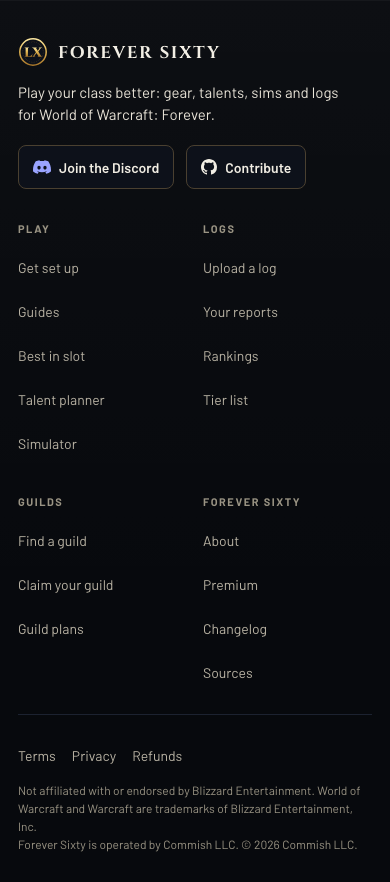
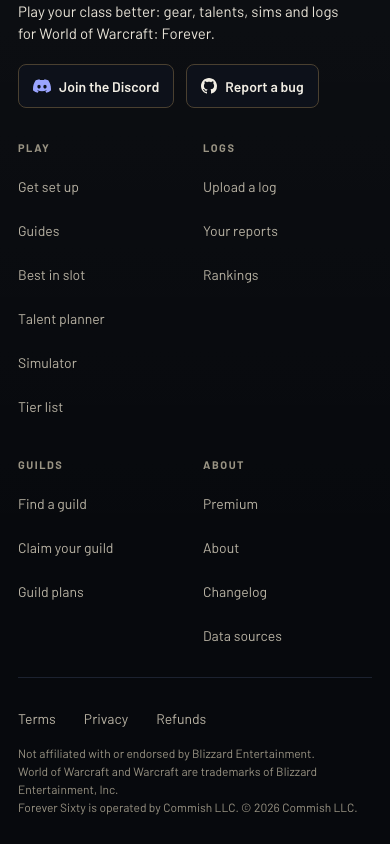
fix(web): footer wording, one grid, 44px legal targets

diff --git a/web/tests/e2e/footer.spec.ts b/web/tests/e2e/footer.spec.ts
@@ -3,7 +3,6 @@ import { expect, test, type Locator } from '@playwright/test';
 // design/specs/2026-10-28-polish.md section 2.3: below 768 the four link columns are a 2 x 2
 // grid (never one long column) and every link is a 44px row; the Discord button is reachable.
 test.use({ viewport: { width: 390, height: 844 } });
-test.skip(() => test.info().project.name !== 'desktop', 'one project: the viewport is set here');
 
 const HIT_TARGET_PX = 44;
 
@@ -16,7 +15,7 @@ async function box(locator: Locator): Promise<{ x: number; y: number; width: num
 test('on a phone the four columns stack two-up with 44px link rows', async ({ page }) => {
   await page.goto('/about');
   const nav = page.getByRole('navigation', { name: 'Footer' });
-  const labels = ['Play', 'Logs', 'Guilds', 'Forever Sixty'];
+  const labels = ['Play', 'Logs', 'Guilds', 'About'];
   const heads = await Promise.all(labels.map((label) => box(nav.getByText(label, { exact: true }).first())));
   expect(Math.abs(heads[0].y - heads[1].y)).toBeLessThan(2);
   expect(Math.abs(heads[2].y - heads[3].y)).toBeLessThan(2);
@@ -40,7 +39,9 @@ test('the legal links and the buttons clear 44px and sit above the legal sentenc
   ] as const) {
     const link = footer.getByRole('link', { name: label, exact: true });
     await expect(link).toHaveAttribute('href', href);
-    expect((await box(link)).height).toBeGreaterThanOrEqual(HIT_TARGET_PX);
+    const linkBox = await box(link);
+    expect(linkBox.height).toBeGreaterThanOrEqual(HIT_TARGET_PX);
+    expect(linkBox.width).toBeGreaterThanOrEqual(HIT_TARGET_PX);
   }
   const discord = footer.getByRole('link', { name: 'Join the Discord' });
   expect((await box(discord)).height).toBeGreaterThanOrEqual(HIT_TARGET_PX);

diff --git a/web/src/lib/footer-copy.ts b/web/src/lib/footer-copy.ts
@@ -22,7 +22,7 @@ export const FOOTER_DISCORD_BUTTON: FooterLink = {
 };
 
 export const FOOTER_CONTRIBUTE_BUTTON: FooterLink = {
-  label: 'Contribute',
+  label: 'Report a bug',
   href: `${communityLinks.githubRepo}/issues`,
 };
 
@@ -35,6 +35,7 @@ export const FOOTER_COLUMNS: readonly FooterColumn[] = [
       { label: 'Best in slot', href: '/bis' },
       { label: 'Talent planner', href: '/planner' },
       { label: 'Simulator', href: '/sim' },
+      { label: 'Tier list', href: '/tiers' },
     ],
   },
   {
@@ -43,7 +44,6 @@ export const FOOTER_COLUMNS: readonly FooterColumn[] = [
       { label: 'Upload a log', href: '/logs' },
       { label: 'Your reports', href: '/reports' },
       { label: 'Rankings', href: '/rankings' },
-      { label: 'Tier list', href: '/tiers' },
     ],
   },
   {
@@ -55,12 +55,12 @@ export const FOOTER_COLUMNS: readonly FooterColumn[] = [
     ],
   },
   {
-    heading: 'Forever Sixty',
+    heading: 'About',
     links: [
-      { label: 'About', href: '/about' },
       { label: 'Premium', href: '/premium' },
+      { label: 'About', href: '/about' },
       { label: 'Changelog', href: '/changelog' },
-      { label: 'Sources', href: '/sources' },
+      { label: 'Data sources', href: '/sources' },
     ],
   },
 ];

diff --git a/web/src/components/Footer.test.ts b/web/src/components/Footer.test.ts
@@ -46,12 +46,7 @@ describe('Footer', () => {
   });
 
   it('has the four labelled columns of the spec in order', () => {
-    expect(FOOTER_COLUMNS.map((column) => column.heading)).toEqual([
-      'Play',
-      'Logs',
-      'Guilds',
-      'Forever Sixty',
-    ]);
+    expect(FOOTER_COLUMNS.map((column) => column.heading)).toEqual(['Play', 'Logs', 'Guilds', 'About']);
   });
 
   it('renders every column and legal link with its href', async () => {
@@ -67,9 +62,9 @@ describe('Footer', () => {
     }
   });
 
-  it('carries the Discord invite and the Contribute issues link as buttons', async () => {
+  it('carries the Discord invite and the Report a bug issues link as buttons', async () => {
     const html = await renderFooter();
     expect(html).toMatch(/<a[^>]*href="https:\/\/discord\.gg\/[^"]+"[^>]*>[\s\S]*?Join the Discord/);
-    expect(html).toMatch(/<a[^>]*href="[^"]+\/issues"[^>]*>[\s\S]*?Contribute/);
+    expect(html).toMatch(/<a[^>]*href="[^"]+\/issues"[^>]*>[\s\S]*?Report a bug/);
   });
 });

diff --git a/design/specs/2026-10-28-polish.md b/design/specs/2026-10-28-polish.md
@@ -122,11 +122,11 @@ A footer answers “where is everything else, and who runs this?”. At 1280 and
 
 Boards: `renders/polish-footer-1440.png`, `polish-footer-2000.png`, `polish-footer-phone.png`.
 
-Full-bleed band: 1 px `rgba(255,255,255,.06)` top rule, ground `linear-gradient(180deg, rgba(255,255,255,.025), transparent 70%)` over `--bg`. Content in the centred 1344 column.
+Full-bleed band: 1 px `rgba(255,255,255,.06)` top rule, ground `linear-gradient(180deg, rgba(255,255,255,.025), transparent 70%)` over `--bg`. Content in the site's page column (`--page-max` 1344 with its 48 px gutter, so 1248 px of content, as the mock draws it).
 
 **Top row (from 1024).** `grid-template-columns: minmax(0,1.7fr) repeat(4, minmax(0,1fr))`, gap 32, padding 48 px 0 36 px.
 
-1. **Brand block.** Seal 30 px and the wordmark (Cinzel 700 17 px, the logo). 14 px under it, the promise, 15 px `--text`, max 340 px (§2.6). 20 px under it, two `BUTTON_SECONDARY` small (36 px from 1024, 44 px below), sentence case for these two only: `Join the Discord` with the Discord mark in `#9aa4ff`, and `Contribute` with the repository mark (`links.json` repo key plus `/issues`, today’s Contribute href).
+1. **Brand block.** Seal 30 px and the wordmark (Cinzel 700 17 px, the logo). 14 px under it, the promise, 15 px `--text`, max 340 px (§2.6). 20 px under it, two `BUTTON_SECONDARY` small (36 px from 1024, 44 px below), sentence case for these two only: `Join the Discord` with the Discord mark in `#9aa4ff`, and `Report a bug` with the repository mark (`links.json` repo key plus `/issues`, today’s Contribute href).
 2. **Four columns.** Each: a micro-label (11 px 700 `.14em` uppercase `--muted`), 8 px, then links 14 px `--nav`, each a 32 px row from 1024. Columns and hrefs in §2.6.
 
 **Legal bar.** 1 px `--line-soft` top rule, padding 18 px 0 28 px, flex, space-between. Left, 12 px `--muted` / 18 px: the trademark sentence, a line break, the operator sentence. Right: `Terms`, `Privacy`, `Refunds`, 13 px `--nav`, 32 px rows, 8 px padding each side.
@@ -140,7 +140,7 @@ Full-bleed band: 1 px `rgba(255,255,255,.06)` top rule, ground `linear-gradient(
 | Element | Default | Hover | Focus-visible | Active | Others |
 |---|---|---|---|---|---|
 | Column and legal links | `--nav`, no underline | `--strong`, 120 ms | 2 px gold ring, 2 px offset | `--gold-hover` | n/a: static links |
-| `Join the Discord`, `Contribute` | `BUTTON_SECONDARY` | §4.2 | §4.2 | §4.2 | n/a |
+| `Join the Discord`, `Report a bug` | `BUTTON_SECONDARY` | §4.2 | §4.2 | §4.2 | n/a |
 
 ### 2.5 Hierarchy
 
@@ -152,11 +152,11 @@ The brand block’s promise is the footer’s one primary line. The two buttons 
 |---|---|
 | `promise` | `Play your class better: gear, talents, sims and logs for World of Warcraft: Forever.` |
 | `discordButton` | `Join the Discord` → `links.json` `discordInvite` |
-| `contributeButton` | `Contribute` → the repo issues URL (today’s) |
-| Column `Play` | `Get set up` /setup · `Guides` /guides · `Best in slot` /bis · `Talent planner` /planner · `Simulator` /sim |
-| Column `Logs` | `Upload a log` /logs · `Your reports` /reports · `Rankings` /rankings · `Tier list` /tiers |
+| `contributeButton` | `Report a bug` → the repo issues URL (today’s) |
+| Column `Play` | `Get set up` /setup · `Guides` /guides · `Best in slot` /bis · `Talent planner` /planner · `Simulator` /sim · `Tier list` /tiers |
+| Column `Logs` | `Upload a log` /logs · `Your reports` /reports · `Rankings` /rankings |
 | Column `Guilds` | `Find a guild` /guild · `Claim your guild` /guild#claim · `Guild plans` /premium#guild-leaders |
-| Column `Forever Sixty` | `About` /about · `Premium` /premium · `Changelog` /changelog · `Sources` /sources |
+| Column `About` | `Premium` /premium · `About` /about · `Changelog` /changelog · `Data sources` /sources |
 | Legal links | `Terms` /terms · `Privacy` /privacy · `Refunds` /refunds |
 | `trademark` | `Not affiliated with or endorsed by Blizzard Entertainment. World of Warcraft and Warcraft are trademarks of Blizzard Entertainment, Inc.` |
 | `operator` | `Forever Sixty is operated by Commish LLC. © {year} Commish LLC.` (unchanged wording) |
